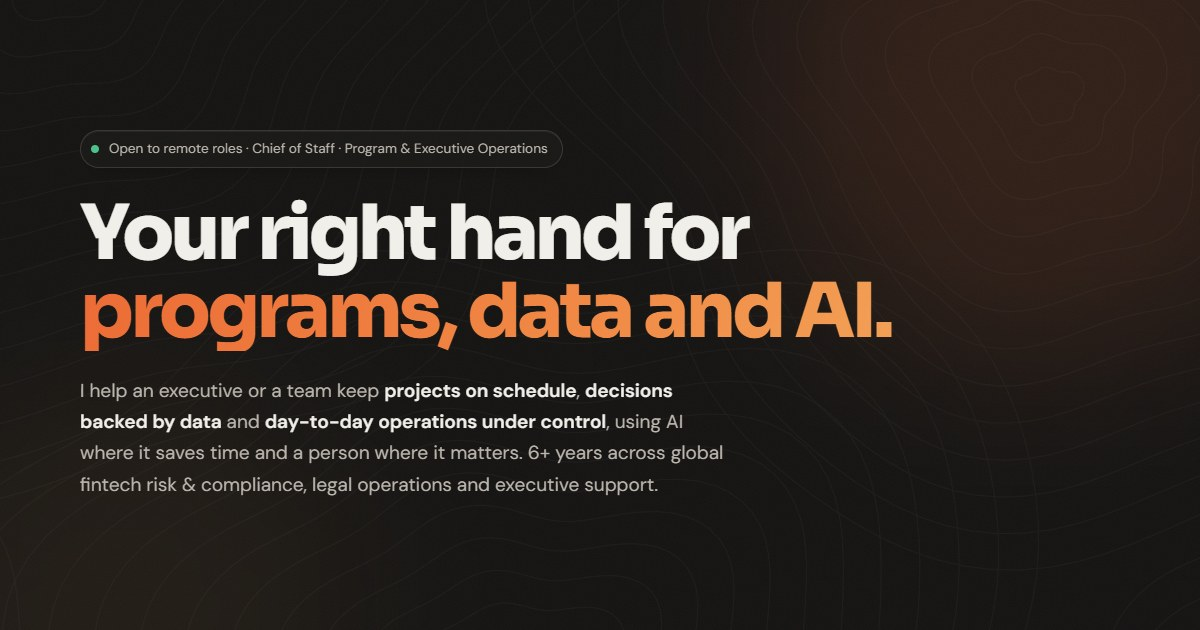
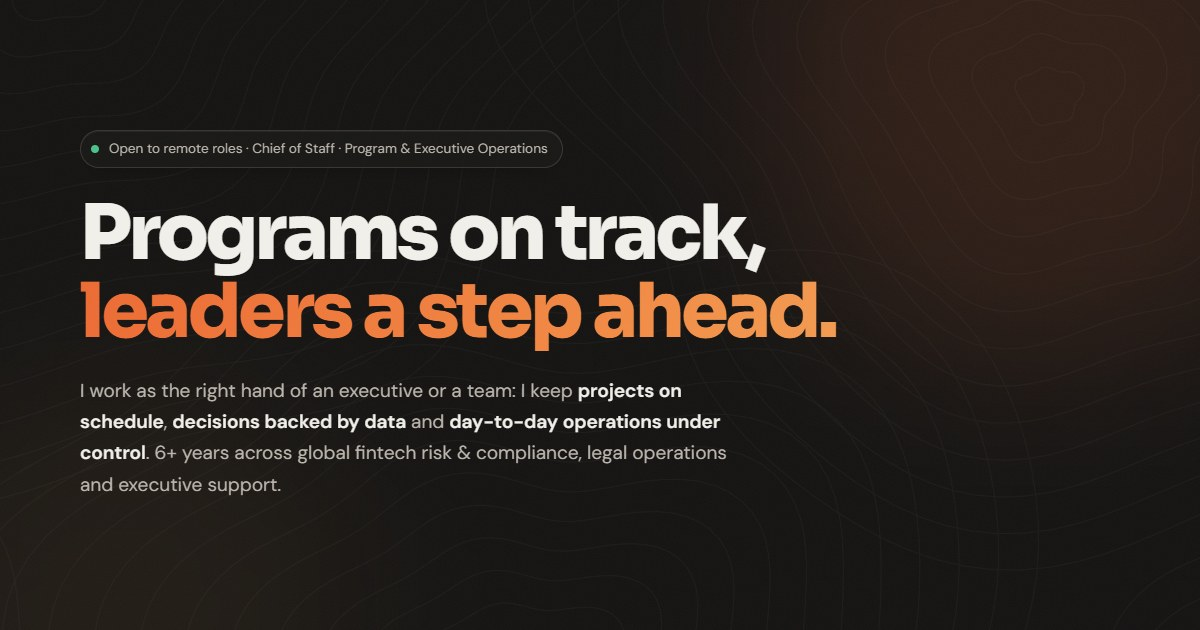
Own voice: new headline and section titles, AI moved to a supporting role, reordered cases

Changed region(s): [[0.0617, 0.3016, 0.74, 0.573], [0.0617, 0.6635, 0.6167, 0.7841], [0.0617, 0.6032, 0.5858, 0.6333]]

diff --git a/index.html b/index.html
@@ -4,13 +4,13 @@
   <meta charset="utf-8" />
   <meta name="viewport" content="width=device-width, initial-scale=1" />
   <title>Kenneth Rosales — Program, Operations & Executive Support</title>
-  <meta name="description" content="Kenneth Rosales: program and project management, operations, data and AI workflows, and executive support. 6+ years across global fintech risk & compliance, legal operations and executive support. Managua, open to remote." />
+  <meta name="description" content="Kenneth Rosales: program and project management, operations, data and reporting, and executive support. 6+ years across global fintech risk & compliance, legal operations and executive support. Managua, open to remote." />
   <meta name="author" content="Kenneth Rosales" />
   <meta name="theme-color" content="#141312" />
   <link rel="icon" href="assets/favicon.svg" type="image/svg+xml" />
   <meta property="og:type" content="profile" />
-  <meta property="og:title" content="Kenneth Rosales — Your right hand for programs, data and AI" />
-  <meta property="og:description" content="Program & project management · Operations · Data & reporting · AI workflows · Executive support. Managua, open to remote." />
+  <meta property="og:title" content="Kenneth Rosales — Programs on track, leaders a step ahead" />
+  <meta property="og:description" content="Program & project management · Operations · Data & reporting · Executive support. Managua, open to remote." />
   <meta property="og:image" content="/assets/og.jpg" />
   <meta name="twitter:card" content="summary_large_image" />
   <link rel="preconnect" href="https://fonts.googleapis.com" />
@@ -315,7 +315,7 @@
     <div class="wrap">
       <a class="me" href="#top"><img src="assets/kenneth.jpg" alt="" width="34" height="34" />Kenneth Rosales</a>
       <nav class="links" aria-label="Primary">
-        <a href="#help" data-i18n="nav.help">How I help</a>
+        <a href="#help" data-i18n="nav.help">Where I fit</a>
         <a href="#experience" data-i18n="nav.xp">Experience</a>
         <a href="#work" data-i18n="nav.work">Work</a>
         <a href="#contact" data-i18n="nav.contact">Contact</a>
@@ -333,14 +333,14 @@
       <div class="glow a"></div><div class="glow b"></div>
       <div class="wrap">
         <span class="status a-up"><i aria-hidden="true"></i><span data-i18n="hero.status">Open to remote roles · Chief of Staff · Program &amp; Executive Operations</span></span>
-        <h1 id="h1" class="split"><span class="l" data-i18n="hero.l1">Your right hand for</span><span class="l grad" data-i18n="hero.l2">programs, data and AI.</span></h1>
-        <p class="sub a-up" data-i18n="hero.sub">I help an executive or a team keep <b>projects on schedule</b>, <b>decisions backed by data</b> and <b>day-to-day operations under control</b>, using AI where it saves time and a person where it matters. 6+ years across global fintech risk &amp; compliance, legal operations and executive support.</p>
+        <h1 id="h1" class="split"><span class="l" data-i18n="hero.l1">Programs on track,</span><span class="l grad" data-i18n="hero.l2">leaders a step ahead.</span></h1>
+        <p class="sub a-up" data-i18n="hero.sub">I work as the right hand of an executive or a team: I keep <b>projects on schedule</b>, <b>decisions backed by data</b> and <b>day-to-day operations under control</b>. 6+ years across global fintech risk &amp; compliance, legal operations and executive support.</p>
         <div class="pills a-up">
           <span class="pill" data-i18n="pill.1">Program &amp; project management</span>
           <span class="pill" data-i18n="pill.2">Operations</span>
           <span class="pill" data-i18n="pill.3">Data &amp; reporting</span>
-          <span class="pill" data-i18n="pill.4">AI workflows</span>
-          <span class="pill" data-i18n="pill.5">Executive support</span>
+          <span class="pill" data-i18n="pill.4">Executive support</span>
+          <span class="pill" data-i18n="pill.5">Vendor management</span>
         </div>
         <div class="marquee a-up" aria-hidden="true"><div class="track" id="marq"></div></div>
         <div class="facts a-up">
@@ -381,10 +381,10 @@
           <div class="loc"><i aria-hidden="true"></i><span data-i18n="about.loc">Managua, Nicaragua · Remote or relocation</span></div>
         </div>
         <div class="txt">
-          <div class="eyebrow a-up" data-i18n="about.k">About</div>
+          <div class="eyebrow a-up" data-i18n="about.k">Who I am</div>
           <h3 id="h-about" class="lead split" data-i18n="about.t">I like being the person who knows where everything stands.</h3>
           <p class="a-up" data-i18n="about.p1">Industrial engineer with six years across global fintech risk and compliance, legal operations and executive support. At Remitly I went from investigating cases, to coordinating the team that worked them, to running the Risk program and two outsourced sites, so I understand what each level needs and how to keep it connected.</p>
-          <p class="a-up" data-i18n="about.p2">I work with plain tools used well: roadmaps and trackers people actually update, SOPs a new hire can follow, a few KPIs read every week, and agentic AI workflows for the first draft, with a person signing off before anything is used.</p>
+          <p class="a-up" data-i18n="about.p2">I work with plain tools used well: roadmaps and trackers people actually update, SOPs a new hire can follow, a few KPIs read every week, and automation for the repetitive first draft, always with a person signing off.</p>
           <div class="counts">
             <div class="surface a-up"><b><span data-count="6">6</span>+</b><span class="k" data-i18n="c.1">years in operations</span></div>
             <div class="surface a-up"><b><span data-count="100">100</span>+</b><span class="k" data-i18n="c.2">outsourced agents across two sites</span></div>
@@ -398,17 +398,17 @@
     <section class="sec alt" id="help" aria-labelledby="h-help">
       <div class="wrap">
         <div class="head">
-          <div class="eyebrow a-up" data-i18n="help.k">How I help</div>
-          <h2 id="h-help" class="split" data-i18n="help.t">What I'd take on from week one.</h2>
-          <p class="a-up" data-i18n="help.p">Each line is something I've already done in a real job, and where.</p>
+          <div class="eyebrow a-up" data-i18n="help.k">Where I fit</div>
+          <h2 id="h-help" class="split" data-i18n="help.t">Hand me the work no one owns yet.</h2>
+          <p class="a-up" data-i18n="help.p">Six areas I can take off someone's plate, each with where I've already done it.</p>
         </div>
         <div class="own">
           <div class="row a-up"><span class="n">01</span><h3><span class="ico" aria-hidden="true"><svg viewBox="0 0 24 24" fill="none" stroke="currentColor" stroke-width="1.8"><path d="M4 6h16M4 12h10M4 18h6"/></svg></span><span data-i18n="o1.t">Programs and projects</span></h3><div><p data-i18n="o1.p">Roadmaps, OKRs, timelines and dependencies, from pilot and UAT to go/no-go and rollout, with one place to see what is on track and what is blocked.</p><span class="ev" data-i18n="o1.e">Remitly: owned the Risk program roadmap and led 10+ program changes end to end</span><div class="tags"><span>Roadmaps</span><span>OKRs</span><span>Gantt</span><span>UAT</span><span>Go/no-go</span></div></div></div>
           <div class="row a-up"><span class="n">02</span><h3><span class="ico" aria-hidden="true"><svg viewBox="0 0 24 24" fill="none" stroke="currentColor" stroke-width="1.8"><rect x="3" y="5" width="18" height="16" rx="2"/><path d="M3 10h18M8 3v4M16 3v4"/></svg></span><span data-i18n="o2.t">Executive support</span></h3><div><p data-i18n="o2.p">Calendars, meeting prep, documents and follow-up, plus travel, visas, per diem, expenses and events, so leaders spend time only on what needs them.</p><span class="ev" data-i18n="o2.e">Aseal Group: three executives · Remitly: 10+ international trips and two annual summits</span><div class="tags"><span data-i18n="tg.cal">Calendar</span><span data-i18n="tg.meet">Meeting prep</span><span data-i18n="tg.travel">Travel</span><span data-i18n="tg.events">Events</span><span data-i18n="tg.exp">Expense reporting</span></div></div></div>
           <div class="row a-up"><span class="n">03</span><h3><span class="ico" aria-hidden="true"><svg viewBox="0 0 24 24" fill="none" stroke="currentColor" stroke-width="1.8"><path d="M4 20V10M10 20V4M16 20v-7M22 20H2"/></svg></span><span data-i18n="o3.t">Data and reporting</span></h3><div><p data-i18n="o3.p">SQL queries, dashboards and KPI scorecards that turn volume, backlog, staffing and quality into decision-ready numbers.</p><span class="ev" data-i18n="o3.e">Remitly: Power BI and Looker dashboards with visibility up to VP level</span><div class="tags"><span>SQL</span><span>Power BI</span><span>Looker</span><span>Tableau</span><span data-i18n="tg.score">KPI scorecards</span></div></div></div>
-          <div class="row a-up"><span class="n">04</span><h3><span class="ico" aria-hidden="true"><svg viewBox="0 0 24 24" fill="none" stroke="currentColor" stroke-width="1.8"><path d="M12 3v3M12 18v3M3 12h3M18 12h3"/><circle cx="12" cy="12" r="4"/></svg></span><span data-i18n="o4.t">AI workflows, human-reviewed</span></h3><div><p data-i18n="o4.p">Agentic workflows and automated pipelines with Claude Code, custom skills and MCP integrations that take the repetitive first draft off the team.</p><span class="ev" data-i18n="o4.e">Ramos Law intake pipeline and Remitly's GenAI ID pipeline, each cutting time per case by ~40%</span><div class="tags"><span>Claude Code</span><span>MCP</span><span data-i18n="tg.prompt">Prompt engineering</span><span data-i18n="tg.llm">LLM document extraction</span></div></div></div>
-          <div class="row a-up"><span class="n">05</span><h3><span class="ico" aria-hidden="true"><svg viewBox="0 0 24 24" fill="none" stroke="currentColor" stroke-width="1.8"><circle cx="9" cy="8" r="3"/><path d="M3 20c0-3.3 2.7-6 6-6s6 2.7 6 6M16 4.5a3 3 0 0 1 0 6M21 20c0-2.6-1.6-4.8-4-5.6"/></svg></span><span data-i18n="o5.t">Vendor and BPO governance</span></h3><div><p data-i18n="o5.p">SLAs, KPI scorecards, business reviews, corrective action plans and QA calibration that keep outsourced teams accountable.</p><span class="ev" data-i18n="o5.e">Sutherland sites in Barranquilla and Hyderabad: error rate down ~20%, SLA held at 95%+</span><div class="tags"><span>SLAs</span><span data-i18n="tg.qbr">Business reviews</span><span>RCA</span><span data-i18n="tg.qa">QA calibration</span></div></div></div>
-          <div class="row a-up"><span class="n">06</span><h3><span class="ico" aria-hidden="true"><svg viewBox="0 0 24 24" fill="none" stroke="currentColor" stroke-width="1.8"><path d="M7 3h8l4 4v14H7z"/><path d="M15 3v4h4M10 12h6M10 16h6"/></svg></span><span data-i18n="o6.t">Operations, SOPs and capacity</span></h3><div><p data-i18n="o6.p">Written processes, escalation paths, workforce forecasting, site ramp-up and incident management across time zones.</p><span class="ev" data-i18n="o6.e">Remitly: stood up a new risk site in India, ~30 agents to target in about three months</span><div class="tags"><span>SOPs</span><span data-i18n="tg.fc">Forecasting</span><span data-i18n="tg.ramp">Site ramp-up</span><span data-i18n="tg.inc">Incident management</span></div></div></div>
+          <div class="row a-up"><span class="n">04</span><h3><span class="ico" aria-hidden="true"><svg viewBox="0 0 24 24" fill="none" stroke="currentColor" stroke-width="1.8"><circle cx="9" cy="8" r="3"/><path d="M3 20c0-3.3 2.7-6 6-6s6 2.7 6 6M16 4.5a3 3 0 0 1 0 6M21 20c0-2.6-1.6-4.8-4-5.6"/></svg></span><span data-i18n="o5.t">Vendor and BPO governance</span></h3><div><p data-i18n="o5.p">SLAs, KPI scorecards, business reviews, corrective action plans and QA calibration that keep outsourced teams accountable.</p><span class="ev" data-i18n="o5.e">Sutherland sites in Barranquilla and Hyderabad: error rate down ~20%, SLA held at 95%+</span><div class="tags"><span>SLAs</span><span data-i18n="tg.qbr">Business reviews</span><span>RCA</span><span data-i18n="tg.qa">QA calibration</span></div></div></div>
+          <div class="row a-up"><span class="n">05</span><h3><span class="ico" aria-hidden="true"><svg viewBox="0 0 24 24" fill="none" stroke="currentColor" stroke-width="1.8"><path d="M7 3h8l4 4v14H7z"/><path d="M15 3v4h4M10 12h6M10 16h6"/></svg></span><span data-i18n="o6.t">Operations, SOPs and capacity</span></h3><div><p data-i18n="o6.p">Written processes, escalation paths, workforce forecasting, site ramp-up and incident management across time zones.</p><span class="ev" data-i18n="o6.e">Remitly: stood up a new risk site in India, ~30 agents to target in about three months</span><div class="tags"><span>SOPs</span><span data-i18n="tg.fc">Forecasting</span><span data-i18n="tg.ramp">Site ramp-up</span><span data-i18n="tg.inc">Incident management</span></div></div></div>
+          <div class="row a-up"><span class="n">06</span><h3><span class="ico" aria-hidden="true"><svg viewBox="0 0 24 24" fill="none" stroke="currentColor" stroke-width="1.8"><path d="M12 3v3M12 18v3M3 12h3M18 12h3"/><circle cx="12" cy="12" r="4"/></svg></span><span data-i18n="o4.t">Automation where it helps</span></h3><div><p data-i18n="o4.p">Templates and automated pipelines that take the repetitive first draft off the team, with a person reviewing the result.</p><span class="ev" data-i18n="o4.e">Ramos Law intake and Remitly ID review, each about 40% faster per case</span><div class="tags"><span>Claude Code</span><span>MCP</span><span data-i18n="tg.prompt">Prompt engineering</span><span data-i18n="tg.llm">LLM document extraction</span></div></div></div>
         </div>
       </div>
     </section>
@@ -417,9 +417,9 @@
     <section class="sec" id="experience" aria-labelledby="h-xp">
       <div class="wrap">
         <div class="head">
-          <div class="eyebrow a-up" data-i18n="xp.k">Experience</div>
-          <h2 id="h-xp" class="split" data-i18n="xp.t">The path here.</h2>
-          <p class="a-up" data-i18n="xp.p">Two promotions in four years at Remitly, then legal operations. Each step added more of the big picture.</p>
+          <div class="eyebrow a-up" data-i18n="xp.k">Track record</div>
+          <h2 id="h-xp" class="split" data-i18n="xp.t">Three companies, one habit: close the loop.</h2>
+          <p class="a-up" data-i18n="xp.p">From executive support, to fintech risk and two promotions at Remitly, to legal operations.</p>
         </div>
         <div class="xp">
           <article class="job surface spot a-up">
@@ -474,8 +474,8 @@
     <section class="sec alt" id="work" aria-labelledby="h-work">
       <div class="wrap">
         <div class="head">
-          <div class="eyebrow a-up" data-i18n="work.k">Case studies</div>
-          <h2 id="h-work" class="split" data-i18n="work.t">Where I've done this before.</h2>
+          <div class="eyebrow a-up" data-i18n="work.k">Selected work</div>
+          <h2 id="h-work" class="split" data-i18n="work.t">Five projects, up close.</h2>
         </div>
         <div class="cases">
           <article class="case surface spot a-up">
@@ -491,17 +491,11 @@
           <article class="case surface spot a-up">
             <div class="num" aria-hidden="true">02</div>
             <div>
-              <div class="tagrow"><span class="tag ind" data-i18n="tg.comp">Compliance</span><span class="tag" data-i18n="tg.genai">Generative AI</span><span class="tag right"><span class="logo sm"><img src="assets/logos/remitly.png" alt="" /></span>Remitly</span></div>
-              <h3 data-i18n="k2.t">Reading non-Latin IDs with generative AI, signed off by Compliance, Legal and Privacy</h3>
-              <p data-i18n="k2.p">I designed and scaled a pipeline that reads, translates and transliterates non-Latin ID documents for watchlist screening. It was piloted with accuracy controls before getting global sign-off.</p>
-              <div class="flow">
-                <div><b data-i18n="fl.1k">1 · Input</b><span data-i18n="fl.1">ID document, non-Latin script</span></div>
-                <div><b data-i18n="fl.2k">2 · AI pass</b><span data-i18n="fl.2">Read, translate, transliterate</span></div>
-                <div class="h"><b data-i18n="fl.3k">3 · Human review</b><span data-i18n="fl.3">Checked against the source</span></div>
-                <div><b data-i18n="fl.4k">4 · Screening</b><span data-i18n="fl.4">Only after confirmation</span></div>
-              </div>
-              <div class="kpis"><div class="kpi"><b>~40%</b><span data-i18n="k2.a">less review time per case</span></div><div class="kpi"><b data-i18n="k2.bb">Global</b><span data-i18n="k2.b">sign-off from three teams</span></div></div>
-              <div class="tools-row"><span class="tchip"><i style="--ic:url(assets/tools/openai.svg)"></i>ChatGPT</span><span class="tchip" data-i18n="tg.acc">Accuracy controls</span><span class="tchip">Watchlist</span></div>
+              <div class="tagrow"><span class="tag ind" data-i18n="tg.execops">Executive operations</span><span class="tag" data-i18n="tg.events">Events</span><span class="tag right"><span class="logo sm"><img src="assets/logos/remitly.png" alt="" /></span>Remitly</span></div>
+              <h3 data-i18n="k5.t">Two annual summits and 10+ international trips, handled end to end</h3>
+              <p data-i18n="k5.p">Multi-day summits in Barranquilla and Peru for 40+ leaders from Remitly and its BPO partners: agenda, site shadowing, workshops and logistics. Travel for a Managua team, from per diem, approvals and visas to itineraries and expense reporting, including annual planning at Seattle HQ.</p>
+              <div class="kpis"><div class="kpi"><b>40+</b><span data-i18n="k5.a">leaders per summit</span></div><div class="kpi"><b>10+</b><span data-i18n="k5.b">international trips</span></div></div>
+              <div class="tools-row"><span class="tchip" data-i18n="tg.agenda">Agenda design</span><span class="tchip" data-i18n="tg.logi">Logistics</span><span class="tchip" data-i18n="tg.visas">Visas &amp; per diem</span></div>
             </div>
           </article>
           <article class="case surface spot a-up">
@@ -518,7 +512,7 @@
             <div class="num" aria-hidden="true">04</div>
             <div>
               <div class="tagrow"><span class="tag ind" data-i18n="tg.legalops">Legal operations</span><span class="tag" data-i18n="tg.aiw">AI workflows</span><span class="tag right"><span class="logo sm"><img src="assets/logos/ramoslaw.png" alt="" /></span>Ramos Law</span></div>
-              <h3 data-i18n="k4.t">An intake pipeline that writes the first draft, so the team doesn't have to</h3>
+              <h3 data-i18n="k4.t">A bilingual intake desk where every case has a next step</h3>
               <p data-i18n="k4.p">Cases are classified, and calls, notes and transcripts become case summaries, follow-up messages and CRM-ready records. Every case is screened for fit, key facts and deadlines, then routed to the right practice area the same day.</p>
               <div class="kpis"><div class="kpi"><b>~40%</b><span data-i18n="k4.a">less documentation time</span></div><div class="kpi"><b>95%</b><span data-i18n="k4.b">of active cases on schedule</span></div><div class="kpi"><b>~200</b><span data-i18n="k4.c">cases a month</span></div></div>
               <div class="tools-row"><span class="tchip"><i style="--ic:url(assets/tools/anthropic.svg)"></i>Claude</span><span class="tchip"><i style="--ic:url(assets/tools/openai.svg)"></i>ChatGPT</span><span class="tchip">NEOS CRM</span></div>
@@ -527,11 +521,17 @@
           <article class="case surface spot a-up">
             <div class="num" aria-hidden="true">05</div>
             <div>
-              <div class="tagrow"><span class="tag ind" data-i18n="tg.execops">Executive operations</span><span class="tag" data-i18n="tg.events">Events</span><span class="tag right"><span class="logo sm"><img src="assets/logos/remitly.png" alt="" /></span>Remitly</span></div>
-              <h3 data-i18n="k5.t">Two annual summits and 10+ international trips, handled end to end</h3>
-              <p data-i18n="k5.p">Multi-day summits in Barranquilla and Peru for 40+ leaders from Remitly and its BPO partners: agenda, site shadowing, workshops and logistics. Travel for a Managua team, from per diem, approvals and visas to itineraries and expense reporting, including annual planning at Seattle HQ.</p>
-              <div class="kpis"><div class="kpi"><b>40+</b><span data-i18n="k5.a">leaders per summit</span></div><div class="kpi"><b>10+</b><span data-i18n="k5.b">international trips</span></div></div>
-              <div class="tools-row"><span class="tchip" data-i18n="tg.agenda">Agenda design</span><span class="tchip" data-i18n="tg.logi">Logistics</span><span class="tchip" data-i18n="tg.visas">Visas &amp; per diem</span></div>
+              <div class="tagrow"><span class="tag ind" data-i18n="tg.comp">Compliance</span><span class="tag" data-i18n="tg.genai">Generative AI</span><span class="tag right"><span class="logo sm"><img src="assets/logos/remitly.png" alt="" /></span>Remitly</span></div>
+              <h3 data-i18n="k2.t">Watchlist screening for non-Latin IDs, approved by Compliance, Legal and Privacy</h3>
+              <p data-i18n="k2.p">I designed and scaled a pipeline that reads, translates and transliterates non-Latin ID documents for watchlist screening. It was piloted with accuracy controls before getting global sign-off.</p>
+              <div class="flow">
+                <div><b data-i18n="fl.1k">1 · Input</b><span data-i18n="fl.1">ID document, non-Latin script</span></div>
+                <div><b data-i18n="fl.2k">2 · AI pass</b><span data-i18n="fl.2">Read, translate, transliterate</span></div>
+                <div class="h"><b data-i18n="fl.3k">3 · Human review</b><span data-i18n="fl.3">Checked against the source</span></div>
+                <div><b data-i18n="fl.4k">4 · Screening</b><span data-i18n="fl.4">Only after confirmation</span></div>
+              </div>
+              <div class="kpis"><div class="kpi"><b>~40%</b><span data-i18n="k2.a">less review time per case</span></div><div class="kpi"><b data-i18n="k2.bb">Global</b><span data-i18n="k2.b">sign-off from three teams</span></div></div>
+              <div class="tools-row"><span class="tchip"><i style="--ic:url(assets/tools/openai.svg)"></i>ChatGPT</span><span class="tchip" data-i18n="tg.acc">Accuracy controls</span><span class="tchip">Watchlist</span></div>
             </div>
           </article>
         </div>
@@ -542,15 +542,15 @@
     <section class="sec" id="building" aria-labelledby="h-build">
       <div class="wrap">
         <div class="head">
-          <div class="eyebrow a-up" data-i18n="b.k">Alongside</div>
+          <div class="eyebrow a-up" data-i18n="b.k">On the side</div>
           <h2 id="h-build" class="split" data-i18n="b.t">Building a company from zero.</h2>
           <p class="a-up" data-i18n="b.p">In 2026 I co-founded Xolo Run, a pre-launch platform for running events in Nicaragua. As COO, the work runs from the brand to the code.</p>
         </div>
         <div class="caps">
-          <div class="cap surface spot a-up"><span class="ico" aria-hidden="true"><svg viewBox="0 0 24 24" fill="none" stroke="currentColor" stroke-width="1.8"><path d="M8 8l-4 4 4 4M16 8l4 4-4 4M13 5l-2 14"/></svg></span><h3 data-i18n="b1.t">Agentic development</h3><p data-i18n="b1.p">I build the platform end to end with Claude Code: custom skills, MCP integrations with ClickUp, Supabase and Google Sheets, Postgres and Edge Functions, in sync with our CPO through GitHub.</p><div class="tags"><span>Claude Code</span><span>MCP</span><span>Supabase</span><span>GitHub</span></div></div>
           <div class="cap surface spot a-up"><span class="ico" aria-hidden="true"><svg viewBox="0 0 24 24" fill="none" stroke="currentColor" stroke-width="1.8"><path d="M9 6h11M9 12h11M9 18h11M4 6l1 1 2-2M4 12l1 1 2-2M4 18l1 1 2-2"/></svg></span><h3 data-i18n="b2.t">Project direction in ClickUp</h3><p data-i18n="b2.p">The launch plan lives in ClickUp: a 256-task checklist across 11 stages with checkpoints, plus owners and open decisions across the founding team.</p><div class="tags"><span>ClickUp</span><span data-i18n="tg.launch">Launch plan</span><span data-i18n="tg.road">Roadmap</span></div></div>
-          <div class="cap surface spot a-up"><span class="ico" aria-hidden="true"><svg viewBox="0 0 24 24" fill="none" stroke="currentColor" stroke-width="1.8"><path d="M4 20V10M10 20V4M16 20v-7M22 20H2"/></svg></span><h3 data-i18n="b3.t">Validation and metrics</h3><p data-i18n="b3.p">Launched a demand-validation survey and a waitlist, and automated a live metrics dashboard that follows both.</p><div class="tags"><span data-i18n="tg.survey">Survey</span><span data-i18n="tg.wait">Waitlist</span><span>Dashboard</span></div></div>
           <div class="cap surface spot a-up"><span class="ico" aria-hidden="true"><svg viewBox="0 0 24 24" fill="none" stroke="currentColor" stroke-width="1.8"><path d="M12 3l8 3v6c0 4.5-3.4 8.3-8 9-4.6-.7-8-4.5-8-9V6z"/><path d="M9 12l2 2 4-4"/></svg></span><h3 data-i18n="b4.t">Operations, compliance and brand</h3><p data-i18n="b4.p">Own the operating side (payments, personal-data protection, kit delivery) and the legal groundwork, and designed the brand identity with a full brand manual.</p><div class="tags"><span data-i18n="tg.pay">Payments</span><span data-i18n="tg.privacy">Data privacy</span><span data-i18n="tg.brand">Brand</span></div></div>
+          <div class="cap surface spot a-up"><span class="ico" aria-hidden="true"><svg viewBox="0 0 24 24" fill="none" stroke="currentColor" stroke-width="1.8"><path d="M8 8l-4 4 4 4M16 8l4 4-4 4M13 5l-2 14"/></svg></span><h3 data-i18n="b1.t">Building the platform</h3><p data-i18n="b1.p">I build the platform end to end with Claude Code: custom skills, MCP integrations with ClickUp, Supabase and Google Sheets, Postgres and Edge Functions, in sync with our CPO through GitHub.</p><div class="tags"><span>Claude Code</span><span>MCP</span><span>Supabase</span><span>GitHub</span></div></div>
+          <div class="cap surface spot a-up"><span class="ico" aria-hidden="true"><svg viewBox="0 0 24 24" fill="none" stroke="currentColor" stroke-width="1.8"><path d="M4 20V10M10 20V4M16 20v-7M22 20H2"/></svg></span><h3 data-i18n="b3.t">Validation and metrics</h3><p data-i18n="b3.p">Launched a demand-validation survey and a waitlist, and automated a live metrics dashboard that follows both.</p><div class="tags"><span data-i18n="tg.survey">Survey</span><span data-i18n="tg.wait">Waitlist</span><span>Dashboard</span></div></div>
         </div>
         <p class="a-up" style="margin-top:24px"><a class="ext" href="https://xolorun.com" target="_blank" rel="noopener"><span class="logo"><img src="assets/logos/xolorun.png" alt="" /></span>xolorun.com ↗</a></p>
       </div>
@@ -560,15 +560,15 @@
     <section class="sec alt" id="tools" aria-labelledby="h-tools">
       <div class="wrap">
         <div class="head">
-          <div class="eyebrow a-up" data-i18n="t.k">Toolkit &amp; credentials</div>
-          <h2 id="h-tools" class="split" data-i18n="t.t">What I work with.</h2>
+          <div class="eyebrow a-up" data-i18n="t.k">Tools &amp; education</div>
+          <h2 id="h-tools" class="split" data-i18n="t.t">The toolbox.</h2>
         </div>
         <div class="two">
           <div class="panel surface spot a-up">
             <h3 data-i18n="t.tools">Tools</h3>
-            <div class="grp"><div class="gl" data-i18n="t.g1">AI &amp; build</div><div class="list"><span class="tchip"><i style="--ic:url(assets/tools/anthropic.svg)"></i>Claude Code</span><span class="tchip"><i style="--ic:url(assets/tools/openai.svg)"></i>ChatGPT</span><span class="tchip"><i style="--ic:url(assets/tools/githubcopilot.svg)"></i>Copilot</span><span class="tchip"><i style="--ic:url(assets/tools/github.svg)"></i>GitHub</span><span class="tchip"><i style="--ic:url(assets/tools/supabase.svg)"></i>Supabase</span><span class="tchip">MCP</span><span class="tchip">REST APIs</span></div></div>
             <div class="grp"><div class="gl" data-i18n="t.g2">Management &amp; CRM</div><div class="list"><span class="tchip"><i style="--ic:url(assets/tools/jira.svg)"></i>Jira</span><span class="tchip"><i style="--ic:url(assets/tools/asana.svg)"></i>Asana</span><span class="tchip"><i style="--ic:url(assets/tools/notion.svg)"></i>Notion</span><span class="tchip"><i style="--ic:url(assets/tools/clickup.svg)"></i>ClickUp</span><span class="tchip">Viva Goals</span><span class="tchip"><i style="--ic:url(assets/tools/salesforce.svg)"></i>Salesforce</span><span class="tchip">NEOS</span><span class="tchip"><i style="--ic:url(assets/tools/sap.svg)"></i>SAP</span></div></div>
             <div class="grp"><div class="gl" data-i18n="t.g3">Data &amp; productivity</div><div class="list"><span class="tchip">SQL</span><span class="tchip">Power BI</span><span class="tchip"><i style="--ic:url(assets/tools/tableau.svg)"></i>Tableau</span><span class="tchip"><i style="--ic:url(assets/tools/looker.svg)"></i>Looker</span><span class="tchip">Excel</span><span class="tchip"><i style="--ic:url(assets/tools/googlesheets.svg)"></i>Google Workspace</span><span class="tchip">Microsoft 365</span></div></div>
+            <div class="grp"><div class="gl" data-i18n="t.g1">AI &amp; build</div><div class="list"><span class="tchip"><i style="--ic:url(assets/tools/anthropic.svg)"></i>Claude Code</span><span class="tchip"><i style="--ic:url(assets/tools/openai.svg)"></i>ChatGPT</span><span class="tchip"><i style="--ic:url(assets/tools/githubcopilot.svg)"></i>Copilot</span><span class="tchip"><i style="--ic:url(assets/tools/github.svg)"></i>GitHub</span><span class="tchip"><i style="--ic:url(assets/tools/supabase.svg)"></i>Supabase</span><span class="tchip">MCP</span><span class="tchip">REST APIs</span></div></div>
           </div>
           <div class="panel surface spot a-up">
             <h3 data-i18n="t.cred">Education &amp; languages</h3>
@@ -613,28 +613,28 @@
     /* ---------- i18n ---------- */
     var ES = {
       "skip": "Ir al contenido",
-      "nav.help": "Cómo ayudo", "nav.xp": "Experiencia", "nav.work": "Casos", "nav.contact": "Contacto",
+      "nav.help": "Dónde encajo", "nav.xp": "Experiencia", "nav.work": "Casos", "nav.contact": "Contacto",
       "hero.status": "Disponible para roles remotos · Chief of Staff · Programas y operaciones ejecutivas",
-      "hero.l1": "Tu mano derecha en", "hero.l2": "programas, datos e IA.",
-      "hero.sub": "Ayudo a un ejecutivo o a un equipo a mantener <b>los proyectos a tiempo</b>, <b>las decisiones respaldadas por datos</b> y <b>la operación diaria bajo control</b>, con IA donde ahorra tiempo y una persona donde importa. Más de 6 años en riesgo y cumplimiento en fintech global, operaciones legales y apoyo ejecutivo.",
-      "pill.1": "Gestión de programas y proyectos", "pill.2": "Operaciones", "pill.3": "Datos y reportes", "pill.4": "Flujos con IA", "pill.5": "Apoyo ejecutivo",
+      "hero.l1": "Programas en orden,", "hero.l2": "la dirección un paso adelante.",
+      "hero.sub": "Trabajo como mano derecha de un ejecutivo o de un equipo: mantengo <b>los proyectos a tiempo</b>, <b>las decisiones respaldadas por datos</b> y <b>la operación diaria bajo control</b>. Más de 6 años en riesgo y cumplimiento en fintech global, operaciones legales y apoyo ejecutivo.",
+      "pill.1": "Gestión de programas y proyectos", "pill.2": "Operaciones", "pill.3": "Datos y reportes", "pill.4": "Apoyo ejecutivo", "pill.5": "Gestión de proveedores",
       "f.1": "años en operaciones", "f.2b": "Dos ascensos", "f.2": "en Remitly", "f.3": "nativo",
       "hero.cta1": "Cómo puedo ayudar", "hero.cta2": "Contactar",
       "strip": "Empresas y socios con los que he trabajado", "strip.bpo": "socio BPO",
       "about.role": "Operaciones · Programas · Apoyo ejecutivo", "about.loc": "Managua, Nicaragua · Remoto o reubicación",
-      "about.k": "Sobre mí", "about.t": "Me gusta ser la persona que sabe en qué punto está todo.",
+      "about.k": "Quién soy", "about.t": "Me gusta ser la persona que sabe en qué punto está todo.",
       "about.p1": "Ingeniero industrial con seis años en riesgo y cumplimiento en fintech global, operaciones legales y apoyo ejecutivo. En Remitly pasé de investigar casos, a coordinar al equipo que los trabajaba, a dirigir el programa de Riesgo y dos sitios tercerizados, así que entiendo qué necesita cada nivel y cómo mantenerlo conectado.",
-      "about.p2": "Trabajo con herramientas sencillas y bien usadas: roadmaps y trackers que la gente sí actualiza, SOPs que una persona nueva puede seguir, pocos KPIs leídos cada semana, y flujos agénticos de IA para el primer borrador, con una persona que aprueba antes de usar el resultado.",
+      "about.p2": "Trabajo con herramientas sencillas y bien usadas: roadmaps y trackers que la gente sí actualiza, SOPs que una persona nueva puede seguir, pocos KPIs leídos cada semana, y automatización para el primer borrador repetitivo, siempre con una persona que aprueba.",
       "c.1": "años en operaciones", "c.2": "agentes tercerizados en dos sitios", "c.3": "casos legales al mes, en dos idiomas",
-      "help.k": "Cómo ayudo", "help.t": "Lo que asumiría desde la primera semana.", "help.p": "Cada línea es algo que ya hice en un trabajo real, y dónde.",
+      "help.k": "Dónde encajo", "help.t": "Dame el trabajo que todavía no tiene dueño.", "help.p": "Seis áreas que puedo quitarle de encima a alguien, cada una con dónde ya lo hice.",
       "o1.t": "Programas y proyectos", "o1.p": "Roadmaps, OKRs, cronogramas y dependencias, desde el piloto y el UAT hasta el go/no-go y el despliegue, con un solo lugar para ver qué va bien y qué está bloqueado.", "o1.e": "Remitly: llevé el roadmap del programa de Riesgo y lideré más de 10 cambios de programa de principio a fin",
       "o2.t": "Apoyo ejecutivo", "o2.p": "Agendas, preparación de reuniones, documentos y seguimiento, además de viajes, visas, viáticos, gastos y eventos, para que la dirección dedique tiempo solo a lo que la necesita.", "o2.e": "Grupo Aseal: tres ejecutivos · Remitly: más de 10 viajes internacionales y dos cumbres anuales",
       "o3.t": "Datos y reportes", "o3.p": "Consultas SQL, dashboards y scorecards de KPIs que convierten volumen, backlog, personal y calidad en números listos para decidir.", "o3.e": "Remitly: dashboards en Power BI y Looker con visibilidad hasta nivel VP",
-      "o4.t": "Flujos con IA, revisados por personas", "o4.p": "Flujos agénticos y pipelines automatizados con Claude Code, skills propias e integraciones MCP que le quitan al equipo el primer borrador repetitivo.", "o4.e": "Pipeline de intake en Ramos Law y pipeline de IA para documentos en Remitly, cada uno con ~40 % menos tiempo por caso",
+      "o4.t": "Automatización donde ayuda", "o4.p": "Plantillas y pipelines automatizados que le quitan al equipo el primer borrador repetitivo, con una persona que revisa el resultado.", "o4.e": "Intake en Ramos Law y revisión de identificaciones en Remitly, cada uno cerca de 40 % más rápido por caso",
       "o5.t": "Gobierno de proveedores y BPO", "o5.p": "SLAs, scorecards de KPIs, revisiones de negocio, planes de acción correctiva y calibración de QA que mantienen responsables a los equipos tercerizados.", "o5.e": "Sitios de Sutherland en Barranquilla y Hyderabad: tasa de error ~20 % menor y SLA sostenido en 95 %+",
       "o6.t": "Operaciones, SOPs y capacidad", "o6.p": "Procesos escritos, rutas de escalamiento, pronóstico de personal, arranque de sitios y gestión de incidentes entre zonas horarias.", "o6.e": "Remitly: arranqué un nuevo sitio de riesgo en India, ~30 agentes listos en unos tres meses",
       "tg.cal": "Agenda", "tg.meet": "Preparación de reuniones", "tg.travel": "Viajes", "tg.events": "Eventos", "tg.exp": "Reporte de gastos", "tg.score": "Scorecards de KPIs", "tg.prompt": "Prompt engineering", "tg.llm": "Extracción de documentos con LLM", "tg.qbr": "Revisiones de negocio", "tg.qa": "Calibración de QA", "tg.fc": "Pronóstico", "tg.ramp": "Arranque de sitios", "tg.inc": "Gestión de incidentes",
-      "xp.k": "Experiencia", "xp.t": "El camino hasta aquí.", "xp.p": "Dos ascensos en cuatro años en Remitly, y luego operaciones legales. Cada paso sumó más visión de conjunto.",
+      "xp.k": "Trayectoria", "xp.t": "Tres empresas, un hábito: cerrar el ciclo.", "xp.p": "Del apoyo ejecutivo, al riesgo en fintech con dos ascensos en Remitly, a las operaciones legales.",
       "now": "Hoy", "j1.m": "Firma estadounidense de lesiones personales",
       "j1.1": "Primer punto de contacto bilingüe para <b>~200 casos potenciales al mes</b> en lesiones personales, negligencia médica, compensación laboral y aviación.",
       "j1.2": "Construí <b>pipelines automatizados de intake con IA</b> y plantillas que convierten llamadas, notas y transcripciones en resúmenes, seguimientos y registros listos para el CRM, reduciendo ~40 % el tiempo de documentación.",
@@ -654,25 +654,25 @@
       "j3.2": "Preparé agendas, documentos de briefing y actas, y di seguimiento a cada acuerdo hasta cerrarlo con su responsable.",
       "j3.3": "Simplifiqué tareas administrativas con trackers y plantillas compartidas en Google Workspace y Notion, <b>ahorrando ~5 horas por semana</b>.",
       "tg.doc": "Control de documentos",
-      "work.k": "Casos", "work.t": "Dónde ya lo hice.",
+      "work.k": "Trabajo seleccionado", "work.t": "Cinco proyectos, de cerca.",
       "tg.pm": "Gestión de programas", "tg.comp": "Cumplimiento", "tg.genai": "IA generativa", "tg.vendor": "Operaciones con proveedores", "tg.legalops": "Operaciones legales", "tg.aiw": "Flujos con IA", "tg.execops": "Operaciones ejecutivas", "tg.acc": "Controles de precisión", "tg.wfm": "Planificación de personal", "tg.agenda": "Diseño de agenda", "tg.logi": "Logística", "tg.visas": "Visas y viáticos",
       "k1.t": "Un programa de Riesgo para Customer Success, llevado como un solo plan en tres sitios", "k1.p": "OKRs trimestrales en Viva Goals, en cascada a más de 100 empleados. Cada cambio pasó por revisión de SOP, piloto, UAT, go/no-go y despliegue train-the-trainer antes de publicarse como protocolo de toda la empresa.", "k1.a": "cambios de programa", "k1.b": "empleados con OKRs compartidos", "k1.c": "sitios",
-      "k2.t": "Leer identificaciones no latinas con IA generativa, con aprobación de Cumplimiento, Legal y Privacidad", "k2.p": "Diseñé y escalé un pipeline que lee, traduce y translitera documentos de identidad no latinos para revisión de watchlist. Se probó con controles de precisión antes de obtener la aprobación global.",
+      "k2.t": "Revisión de watchlist para identificaciones no latinas, aprobada por Cumplimiento, Legal y Privacidad", "k2.p": "Diseñé y escalé un pipeline que lee, traduce y translitera documentos de identidad no latinos para revisión de watchlist. Se probó con controles de precisión antes de obtener la aprobación global.",
       "fl.1k": "1 · Entrada", "fl.1": "Documento en alfabeto no latino", "fl.2k": "2 · IA", "fl.2": "Leer, traducir, transliterar", "fl.3k": "3 · Revisión humana", "fl.3": "Contrastado con la fuente", "fl.4k": "4 · Revisión", "fl.4": "Solo tras confirmar",
       "k2.a": "menos tiempo de revisión por caso", "k2.bb": "Global", "k2.b": "aprobación de tres equipos",
       "k3.t": "Dos sitios tercerizados, más de 100 agentes, cumpliendo sus SLAs sin autoridad formal", "k3.p": "Revisiones de negocio semanales a trimestrales contra un scorecard de KPIs (QA, tasa de error, SLA, AHT, FCR, CSAT), con planes de acción correctiva, análisis de causa raíz y calibración de QA entre Barranquilla, Hyderabad y Managua. También arranqué desde cero un nuevo sitio en otra ciudad de India.", "k3.a": "menos tasa de error", "k3.b": "SLA en picos", "k3.c": "agentes listos en ~3 meses",
-      "k4.t": "Un pipeline de intake que escribe el primer borrador para que el equipo no tenga que hacerlo", "k4.p": "Los casos se clasifican, y las llamadas, notas y transcripciones se convierten en resúmenes, mensajes de seguimiento y registros listos para el CRM. Cada caso se evalúa por encaje, datos clave y plazos, y se dirige al área correcta el mismo día.", "k4.a": "menos tiempo de documentación", "k4.b": "de los casos activos a tiempo", "k4.c": "casos al mes",
+      "k4.t": "Un intake bilingüe donde cada caso tiene su siguiente paso", "k4.p": "Los casos se clasifican, y las llamadas, notas y transcripciones se convierten en resúmenes, mensajes de seguimiento y registros listos para el CRM. Cada caso se evalúa por encaje, datos clave y plazos, y se dirige al área correcta el mismo día.", "k4.a": "menos tiempo de documentación", "k4.b": "de los casos activos a tiempo", "k4.c": "casos al mes",
       "k5.t": "Dos cumbres anuales y más de 10 viajes internacionales, de principio a fin", "k5.p": "Cumbres de varios días en Barranquilla y Perú para más de 40 líderes de Remitly y sus socios BPO: agenda, visitas a sitios, talleres y logística. Viajes de un equipo de Managua, desde viáticos, aprobaciones y visas hasta itinerarios y reporte de gastos, incluida la planificación anual en la sede de Seattle.", "k5.a": "líderes por cumbre", "k5.b": "viajes internacionales",
       "b.k": "En paralelo", "b.t": "Construyendo una empresa desde cero.", "b.p": "En 2026 cofundé Xolo Run, una plataforma antes de su lanzamiento para eventos de running en Nicaragua. Como COO, el trabajo va desde la marca hasta el código.",
-      "b1.t": "Desarrollo agéntico", "b1.p": "Construyo la plataforma de principio a fin con Claude Code: skills propias, integraciones MCP con ClickUp, Supabase y Google Sheets, Postgres y Edge Functions, en sincronía con nuestro CPO en GitHub.",
+      "b1.t": "Construir la plataforma", "b1.p": "Construyo la plataforma de principio a fin con Claude Code: skills propias, integraciones MCP con ClickUp, Supabase y Google Sheets, Postgres y Edge Functions, en sincronía con nuestro CPO en GitHub.",
       "b2.t": "Dirección de proyecto en ClickUp", "b2.p": "El plan de lanzamiento vive en ClickUp: un checklist de 256 tareas en 11 etapas con puestos de control, más responsables y decisiones abiertas del equipo fundador.",
       "b3.t": "Validación y métricas", "b3.p": "Lancé una encuesta de validación de demanda y una lista de espera, y automaticé un dashboard de métricas en vivo que sigue ambas.",
       "b4.t": "Operaciones, cumplimiento y marca", "b4.p": "Llevo el lado operativo (pagos, protección de datos personales, entrega de kits) y la base legal, y diseñé la identidad de marca con su manual completo.",
       "tg.launch": "Plan de lanzamiento", "tg.road": "Roadmap", "tg.survey": "Encuesta", "tg.wait": "Lista de espera", "tg.pay": "Pagos", "tg.privacy": "Privacidad de datos", "tg.brand": "Marca",
-      "t.k": "Herramientas y credenciales", "t.t": "Con qué trabajo.", "t.tools": "Herramientas", "t.g1": "IA y desarrollo", "t.g2": "Gestión y CRM", "t.g3": "Datos y productividad",
+      "t.k": "Herramientas y formación", "t.t": "La caja de herramientas.", "t.tools": "Herramientas", "t.g1": "IA y desarrollo", "t.g2": "Gestión y CRM", "t.g3": "Datos y productividad",
       "t.cred": "Formación e idiomas", "t.deg": "Ingeniería Industrial", "t.thesis": "Tesis: inteligencia artificial para armonizar datos de ERP en una farmacia nicaragüense.",
       "t.en": "Inglés", "t.enp": "Idioma de trabajo diario con equipos de EE. UU. y socios BPO", "t.es": "Español", "t.esp": "Lengua materna", "t.native": "Nativo",
-      "ct.k": "Contacto", "ct.t": "¿Buscás una mano derecha?", "ct.p": "Disponible para roles remotos de apoyo a un ejecutivo o a un equipo, en Managua o con reubicación.", "ct.copy": "Copiar correo",
+      "ct.k": "Contacto", "ct.t": "¿Buscas una mano derecha?", "ct.p": "Disponible para roles remotos de apoyo a un ejecutivo o a un equipo, en Managua o con reubicación.", "ct.copy": "Copiar correo",
       "foot": "Managua, Nicaragua · Referencias disponibles a solicitud"
     };
     var UI = {
@@ -717,7 +717,7 @@
     setLang(start === "es" ? "es" : "en");
 
     /* ---------- marquee ---------- */
-    var items = ["Project planning", "Roadmaps & OKRs", "Program coordination", "Stakeholder follow-up", "KPI dashboards", "SQL", "SOPs & documentation", "Vendor governance", "Agentic AI workflows", "Calendar & meeting management", "Travel & events", "Bilingual ES / EN"];
+    var items = ["Project planning", "Roadmaps & OKRs", "Program coordination", "Stakeholder follow-up", "KPI dashboards", "SQL", "SOPs & documentation", "Vendor governance", "Process automation", "Calendar & meeting management", "Travel & events", "Bilingual ES / EN"];
     var html = ""; for (var r = 0; r < 2; r++) items.forEach(function (t) { html += "<span>" + t + "</span><span class='d'>·</span>"; });
     document.getElementById("marq").innerHTML = html;
 
